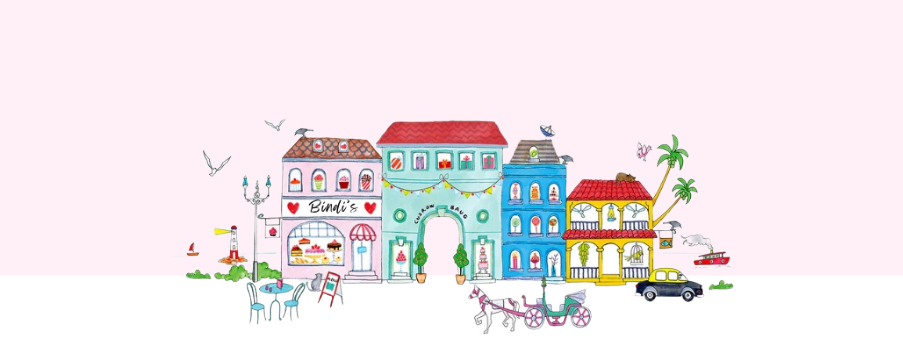
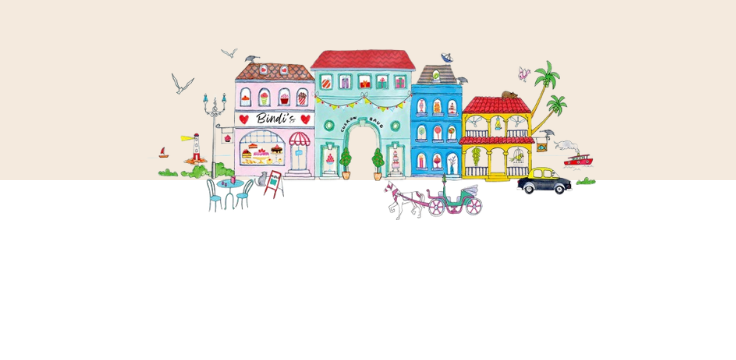
about us section done without image

diff --git a/src/app/about/page.tsx b/src/app/about/page.tsx
@@ -126,7 +126,7 @@ export default function About() {
 
   return (
     <>
-      <main className="bg-[#E6F7FF] min-h-[107vh] max-w-full overflow-hidden bg-b-gradient from-[#F2F4FF] to-[#FFF0F8]">
+      <main className="bg-[#FFF0F8]  max-w-full overflow-hidden ">
         {/* About Us Hero Section */}
         <section className="w-[85%] pt-16 flex justify-center py-10 mx-auto overflow-hidden">
           <div className="container mx-auto px-4 translate-y-10 fade-up">
@@ -150,7 +150,7 @@ export default function About() {
                 {/* Responsive Shop Now Button */}
                 <Link
                   href="/products"
-                  className="bg-[#D1EAFE] text-black px-6 py-3 rounded-full text-lg duration-300 hover:bg-[#fce8d2] shadow-xl hover:shadow-2xl transition-shadow mt-6 
+                  className="bg-[#fee5f2] text-black px-6 py-3 rounded-full text-lg duration-300 hover:bg-[#fbd4e9] shadow-xl hover:shadow-2xl transition-shadow mt-6 
                 max-w-[250px] md:w-auto md:inline-block mx-auto md:mx-0 font-semibold font-ancient"
                 >
                   Shop Now
@@ -172,8 +172,8 @@ export default function About() {
           </div>
         </section>
       </main>
-      <div className="absolute  left-0 w-full h-32 bg-gradient-to-b from-[#E6F7FF] to-[#FFF0F8]" />
-      <section className="py-10 bg-[#FFF0F8] overflow-hidden">
+      <div className="absolute left-0 w-full h-32 bg-gradient-to-b from-[#FFF0F8] to-[#F4EADE]" />
+      <section className="py-10 bg-[#F4EADE] overflow-hidden">
         <div className="container mx-auto px-4">
           <div className="text-center mb-16 mt-12 mx-5">
             <h2
@@ -262,16 +262,16 @@ export default function About() {
 
             {/* Right side - Contact Info */}
             <div className="md:w-1/2 bg-[#F6F5F5] p-8 rounded-2xl shadow-lg contact-info overflow-hidden">
-              <h2 className="text-3xl font-bold text-amber-700 mb-6 font-ancient">
+              <h2 className="text-3xl font-bold text-[#c23471] mb-6 font-ancient">
                 Contact Information
               </h2>
 
               <div className="space-y-6">
                 {/* Address */}
                 <div className="flex items-start gap-4">
-                  <MapPin className="w-6 h-6 text-amber-700 mt-1 flex-shrink-0" />
+                  <MapPin className="w-6 h-6 text-[#c23471] mt-1 flex-shrink-0" />
                   <div>
-                    <h3 className="font-semibold text-xl text-gray-800 mb-2 font-ancient">
+                    <h3 className="font-semibold text-xl text-[#c23471] mb-2 font-ancient">
                       Our Location
                     </h3>
                     <p className="text-gray-600 leading-relaxed font-ancient font-semibold">
@@ -286,15 +286,15 @@ export default function About() {
 
                 {/* Phone */}
                 <div className="flex items-start gap-4">
-                  <Phone className="w-6 h-6 text-amber-700 mt-1 flex-shrink-0" />
+                  <Phone className="w-6 h-6 text-[#c23471] mt-1 flex-shrink-0" />
                   <div>
-                    <h3 className="text-xl text-gray-800 mb-2 font-ancient font-semibold">
+                    <h3 className="text-xl text-[#c23471] mb-2 font-ancient font-semibold">
                       Phone
                     </h3>
                     <p className="text-gray-600">
                       <a
                         href="tel:+918849130189"
-                        className="hover:text-amber-700 transition-colors font-ancient font-semibold"
+                        className="hover:text-[#c23471] transition-colors font-ancient font-semibold"
                       >
                         +91 8849130189
                       </a>
@@ -304,15 +304,15 @@ export default function About() {
 
                 {/* Email */}
                 <div className="flex items-start gap-4">
-                  <Mail className="w-6 h-6 text-amber-700 mt-1 flex-shrink-0" />
+                  <Mail className="w-6 h-6 text-[#c23471] mt-1 flex-shrink-0" />
                   <div>
-                    <h3 className="text-xl text-gray-800 mb-2 font-ancient font-semibold">
+                    <h3 className="text-xl text-[#c23471] mb-2 font-ancient font-semibold">
                       Email
                     </h3>
                     <p className="text-gray-600">
                       <a
                         href="mailto:bindis_cupcakery@gmail.com"
-                        className="hover:text-amber-700 transition-colors font-ancient font-semibold"
+                        className="hover:text-[#c23471] transition-colors font-ancient font-semibold"
                       >
                         bindis_cupcakery@gmail.com
                       </a>
@@ -321,8 +321,8 @@ export default function About() {
                 </div>
 
                 {/* Business Hours */}
-                <div className="mt-8 pt-6 border-t border-amber-700">
-                  <h3 className="text-xl text-gray-800 mb-3 font-ancient font-semibold">
+                <div className="mt-8 pt-6 border-t border-[#c23471]">
+                  <h3 className="text-xl text-[#c23471] mb-3 font-ancient font-semibold">
                     Business Hours
                   </h3>
                   <div className="space-y-2 text-gray-600 font-ancient font-semibold">

diff --git a/src/components/UserReviewForm.tsx b/src/components/UserReviewForm.tsx
@@ -115,7 +115,7 @@ const ReviewForm = () => {
         <button
           type="submit"
           disabled={loading}
-          className="bg-amber-400 text-black px-8 py-3 rounded-tl-xl rounded-br-xl font-medium hover:bg-amber-500 transition-colors duration-700 flex items-center gap-2 shadow-xl font-ancient"
+          className="bg-[#ffd5e4]  text-black px-8 py-3 rounded-tl-xl rounded-br-xl font-medium hover:bg-[#f9c2d5] transition-colors duration-700 flex items-center gap-2 shadow-xl font-ancient"
         >
           {loading ? "Submitting..." : "Submit"}
           <MoveUpRight className="h-4 w-4 inline-block rotate-90" />
